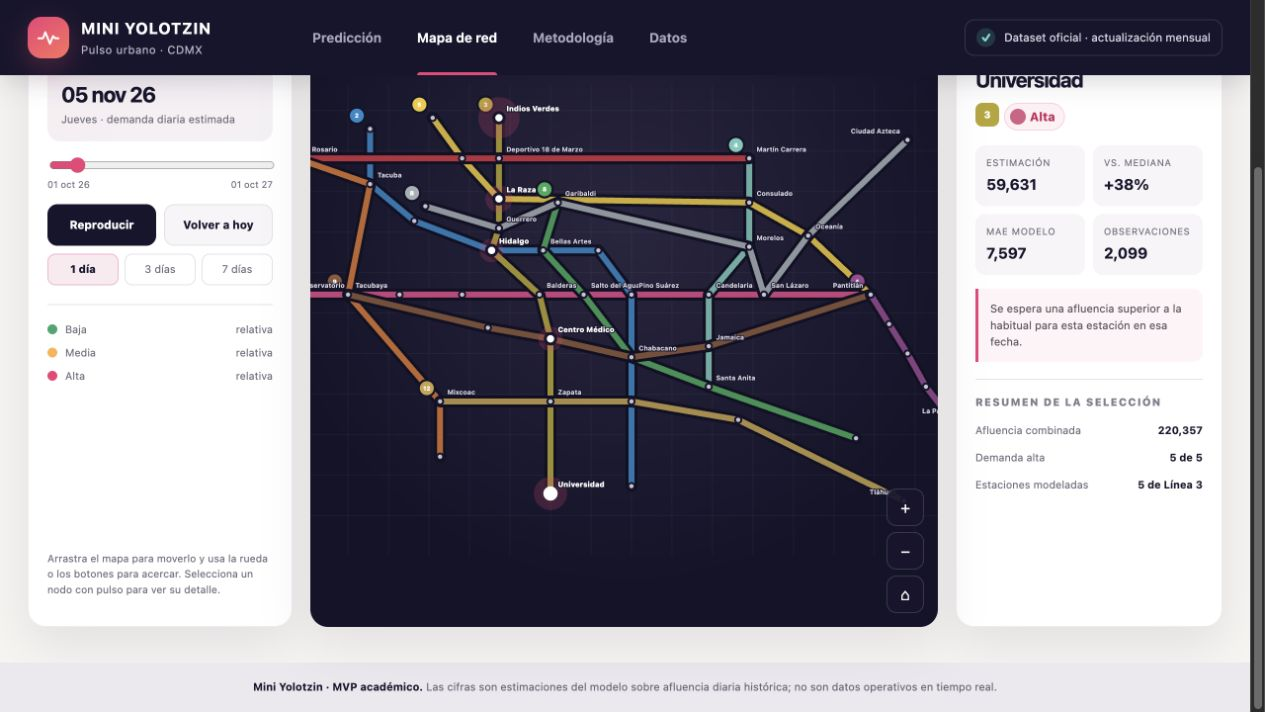
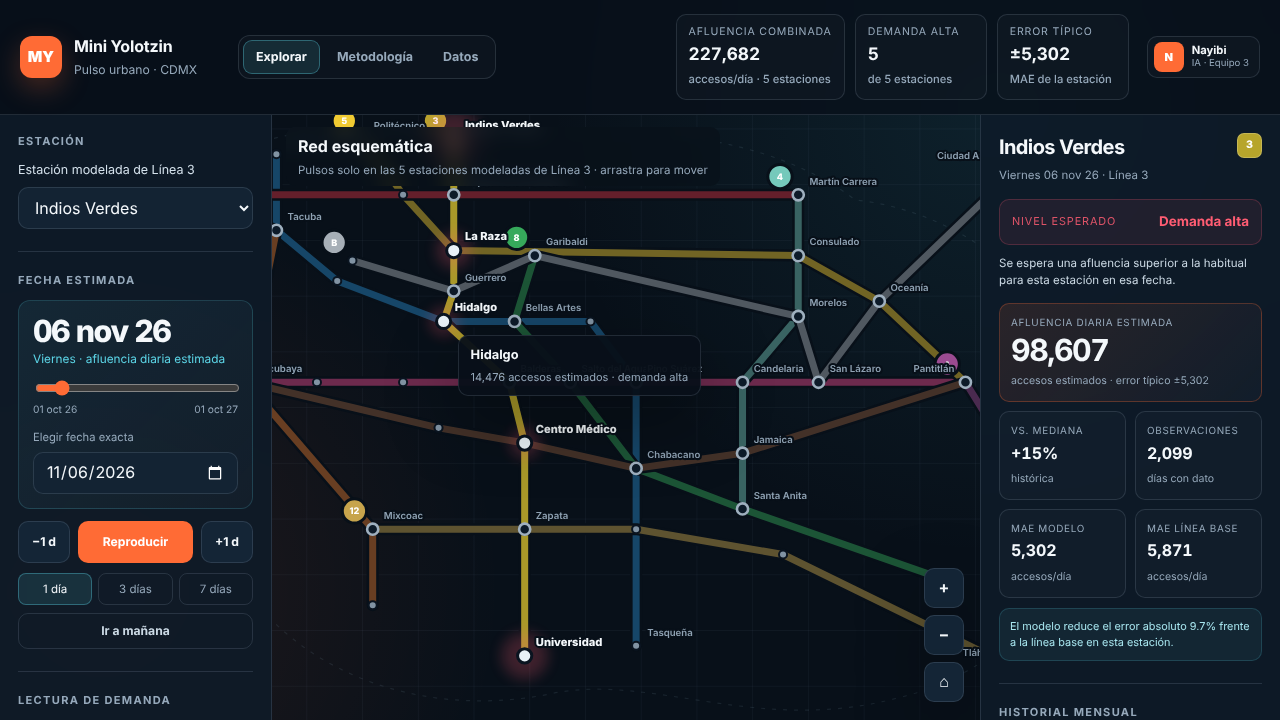
Actualiza documentación y capturas al diseño actual
- README: describe la vista Explorar, el historial y las pestañas actuales; agrega capturas del mapa y del perfil.
- AGENTS: ajusta las comprobaciones mínimas a las pestañas Explorar, Metodología y Datos.
- Regenera assets/preview*.png con el nuevo diseño.
- Da fondo al título del mapa para que se lea al hacer zoom.

Claude-Session: https://claude.ai/code/session_01FQnAUNL8QtRtg4xV3WcWKJ

diff --git a/index.html b/index.html
@@ -178,7 +178,7 @@
     .station.selected .station-core { fill: #fff; stroke: var(--accent); stroke-width: 4; }
     .station-label { fill: #8fa2b3; font-size: 9.5px; font-weight: 600; paint-order: stroke; stroke: #081019; stroke-width: 4px; stroke-linejoin: round; pointer-events: none; }
     .station.modeled .station-label { fill: #f4f8fb; font-size: 11px; font-weight: 800; }
-    .map-title { position: absolute; z-index: 2; left: 20px; top: 18px; pointer-events: none; }
+    .map-title { position: absolute; z-index: 2; left: 14px; top: 12px; max-width: calc(100% - 28px); padding: 8px 12px; border-radius: 10px; background: rgba(8, 16, 25, .72); backdrop-filter: blur(10px); pointer-events: none; }
     .map-title h2 { margin: 0; font-size: 1rem; }
     .map-title p { margin: 4px 0 0; color: var(--muted); font-size: .72rem; }
     .zoom-controls { position: absolute; z-index: 2; right: 16px; bottom: 18px; display: grid; gap: 7px; }

diff --git a/README.md b/README.md
@@ -12,13 +12,20 @@ Después de activar GitHub Pages, la aplicación estará disponible en:
 
 ## Qué incluye
 
-- Predicción diaria para Indios Verdes, La Raza, Hidalgo, Centro Médico y Universidad.
+- Vista **Explorar** a pantalla completa en tres columnas: controles de estación y fecha, mapa esquemático y detalle de la estación.
+- Predicción diaria para Indios Verdes, La Raza, Hidalgo, Centro Médico y Universidad, con su error típico (MAE).
 - Comparación del modelo Random Forest contra una línea base histórica.
-- Mapa esquemático con reproducción por fecha, zoom y selección de estaciones.
+- Mapa esquemático con reproducción por fecha (1, 3 o 7 días), zoom, arrastre y selección de estaciones con ratón o teclado.
+- Historial mensual en barras y lista de estaciones ordenadas por demanda relativa.
+- Pestañas **Metodología** y **Datos** con el proceso, la cobertura y la validación por estación.
 - Perfiles locales de clase que se guardan solamente en el navegador.
 - Información de metodología, cobertura, errores y limitaciones.
 
 Las estimaciones no representan ocupación dentro de los trenes, saturación de andenes ni datos en tiempo real.
+
+| Mapa y detalle | Perfil local |
+|---|---|
+| ![Mapa con detalle de estación](assets/preview-map.png) | ![Creación del perfil local](assets/preview-profile.png) |
 
 ## Abrirla en una computadora
 
@@ -90,7 +97,8 @@ El script reemplaza `model-data.js`. El CSV está ignorado por Git y no debe sub
 
 ## Archivos principales
 
-- `index.html`: interfaz, estilos e interacciones.
+- `index.html`: interfaz, estilos e interacciones (tema oscuro, sin dependencias externas).
+- `assets/`: capturas de la interfaz usadas en este README.
 - `model-data.js`: datos agregados, métricas y predicciones precalculadas.
 - `scripts/build_model_data.py`: limpieza, entrenamiento, validación y exportación.
 - `AGENTS.md`: reglas para asistentes de programación.

diff --git a/AGENTS.md b/AGENTS.md
@@ -33,9 +33,9 @@ Mini Yolotzin es una demostración académica de predicción de afluencia diaria
 Antes de entregar un cambio:
 
 1. Verificar que la página abra sin errores de JavaScript.
-2. Probar las pestañas Predicción, Mapa, Metodología y Datos.
-3. Confirmar que la selección de estación y fecha actualiza la estimación.
-4. Confirmar que el mapa permite reproducir, pausar, seleccionar estaciones y hacer zoom.
+2. Probar las pestañas Explorar, Metodología y Datos, con clic y con las flechas del teclado.
+3. Confirmar que la selección de estación y fecha (lista, barra, fecha exacta y ±1 día) actualiza la estimación y el mapa.
+4. Confirmar que el mapa permite reproducir, pausar, seleccionar estaciones (incluida la lista de demanda relativa) y hacer zoom.
 5. Probar la creación y edición del perfil local.
 6. Revisar la presentación en pantalla pequeña.
 7. Resumir los archivos cambiados y cualquier limitación de la verificación.
